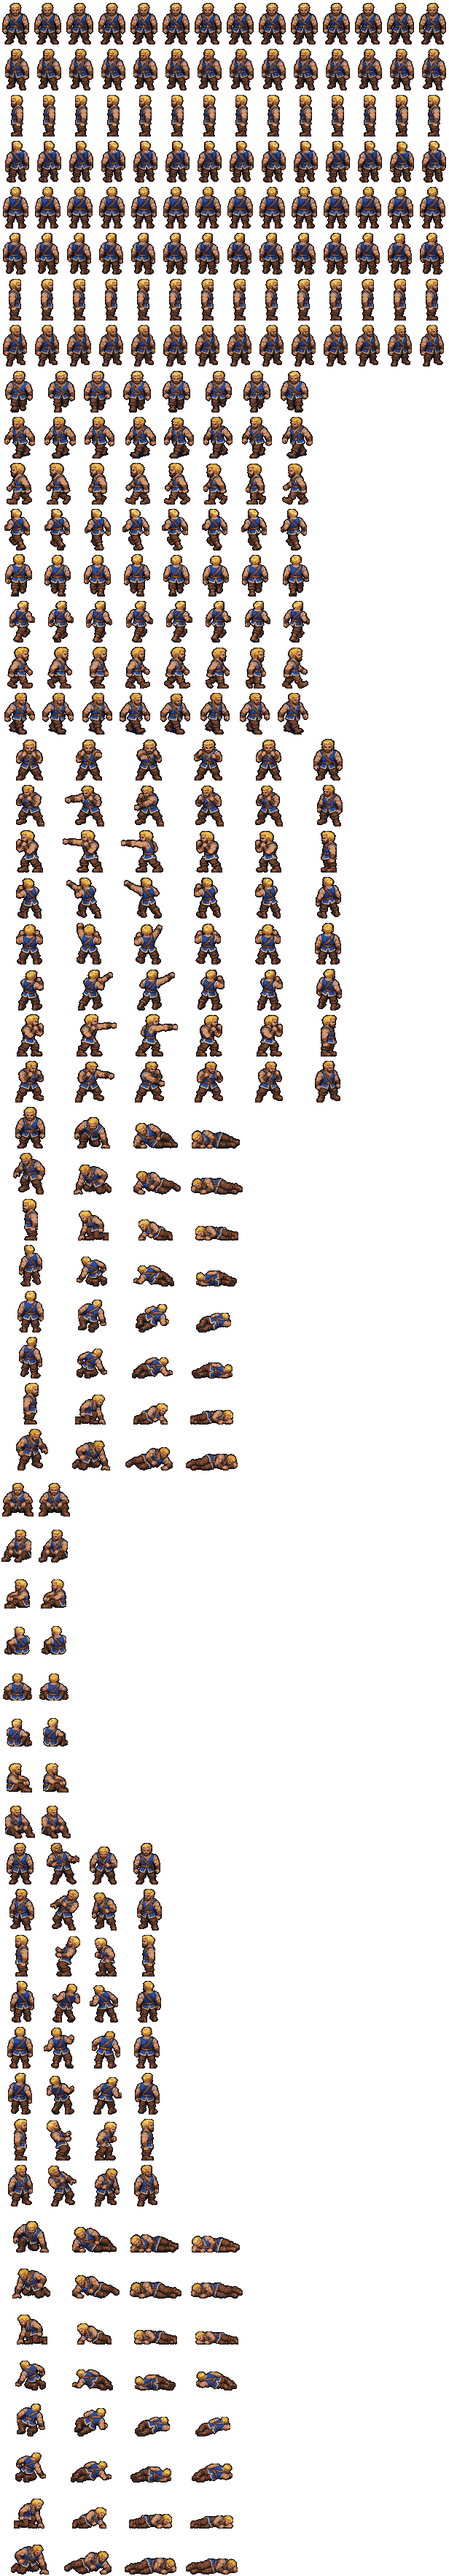
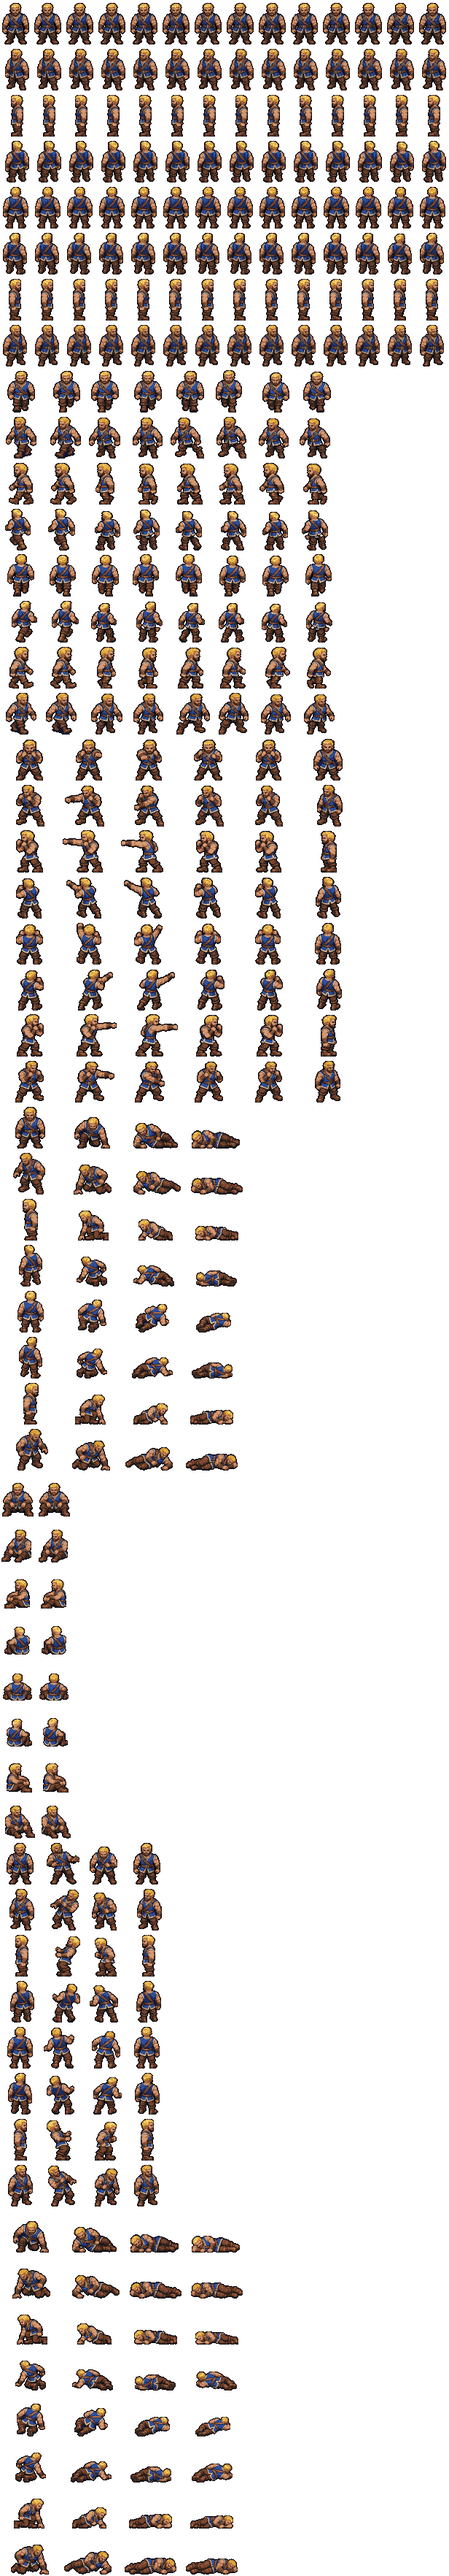
Talmok's walk built from his other poses' legs: both feet step in all eight facings (talmok_p2 walk, tools/talmok-sheet.py WALKS)
Griz, on the lanes desk's relay of 10-30 ~01:35Z: "1 - have the cutter hack legs off of other poses and build the best walk it can" (the art desk's walks repeat a leg in every view; the old 3D walk stays out). Each of the eight frames of each drawn view is an upper body and a pair of legs joined at the tunic's hem (hem(): the blue pieces that start above 70% of his height -- the belt parts the tunic, and the SE walk's painted ground shadow is a blue piece under the boots -- and the pale trim under them) at game size, before the snap, so the outline is drawn round the whole; the legs' hip under the body's; the body's hands that hang past the hem kept with their drawn outline, the legs' frame's own hands left out and a hole over the thigh filled with the trousers' colour round it (hands(), legs_of()). S and N: the walk's 1-4 as drawn, then 5-8 their own drawn bodies on 1-4's legs mirrored -- the other leg leads. SE, E, NE (a mirror would turn the feet): the walk's stride, legs together (the idle's, or the walk's own narrowest), a stride with the other foot forward off the fists' stance (SE, E) or the flinch's half step (NE), together again. A frame whose body and legs are one drawing is taken as drawn. The cutter now composes before it snaps (shrink, then pixel): every other row byte for byte as before, anchor to anchor. Checked at 4x frame by frame, and drawn through the engine (D.spr.draw, every facing and frame, headless from the worktree). Eyes row eyes-talmok-walk-1030
[…]

Changed region(s): [[0.0, 0.1247, 0.7403, 0.3118]]

diff --git a/js/eyes.js b/js/eyes.js
@@ -734,5 +734,8 @@
     'eyes-talmok-fight-1030': { pri: 2, group: G2, title: 'Talmok in his new look, fighting: every row in all eight facings, from the art desk\'s ART-123-TALMOK-COMBAT (10-30)', pt: 'the bestiary, the cutter of 10-29 night (tools/talmok-sheet.py talmok_p2; deep16/data/foes.js talmok, deep16/js/classes.js talmok) · eyes',
       url: 'deep16/?rows=talmok&fresh=1030t',
       look: 'Your “talmok attempts dropped”. The Hex\'s champion in the look of his town pages, the blue sleeveless tunic, the pale-gold hair and the brown beard, in place of the old 3D figure (talmok_p1, kept beside it): his idle (the town pages), walk, Pit Fists (a jab, then the cross that lands), flinch, fall, prone and sit, S, SE, E, NE and N as drawn, SW, W and NW mirrored. Turn him round on the shelf. The art desk\'s own word on the fight pages is “PARTIAL / REVIEW CANDIDATES”: every walk repeats a leg (a shuffle, not two strides), and from the north he falls toward the top-right, as from the NE. To see him in a fight, every row twice: deep16/?show=talmok; on the Hex\'s floor by the sand, his town idle all round.' },
+    'eyes-talmok-walk-1030b': { pri: 2, group: G2, title: 'Talmok\'s walk built from his other poses\' legs, both feet stepping in all eight facings (10-30)', pt: 'the bestiary, the cutter of 10-29 night (tools/talmok-sheet.py WALKS, talmok_p2 walk) · eyes',
+      url: 'deep16/?rows=talmok&fresh=1030w',
+      look: 'Your “have the cutter hack legs off of other poses and build the best walk it can”. On the shelf, his walk: from the front and from behind, the walk\'s own four steps, then the same four with the legs mirrored, so the other foot leads; from the diagonals and the side, the walk\'s stride, his legs together (the idle\'s, or the walk\'s own narrowest), then a stride with the other foot forward, taken off his fists\' stance (SE, E) or his flinch\'s half step (NE), then together again. Each frame joined at the tunic\'s hem. He should step, not shuffle, in every facing, and bob a little; no seam at the hem, no stray dark pixel on a thigh. The old 3D walk stays out. Every other row is as before (eyes-talmok-fight-1030).' },
   };
 })();

diff --git a/deep16/index.html b/deep16/index.html
@@ -77,7 +77,7 @@
 <script src="js/art.js?v=e1ce4cf012"></script>
 <script src="data/cavern.js?v=647c1a184a"></script>
 <script src="data/maps.js?v=4ec440bc24"></script>
-<script src="data/sprites.js?v=6d26ac4083"></script>
+<script src="data/sprites.js?v=6117ec09b7"></script>
 <script src="js/sprites.js?v=132505c283"></script>
 <script src="js/save.js?v=5c4dfded55"></script>
 <script src="data/spells.js?v=b819b6e987"></script>
@@ -165,7 +165,7 @@
 <script src="js/skyshow.js?v=7151daab7a"></script>
 <script src="js/barleyshow.js?v=186123cdd5"></script>
 <script src="js/rulesshow.js?v=ba52d8fe7d"></script>
-<script src="../js/eyes.js?v=cc6202ebbb"></script>
+<script src="../js/eyes.js?v=0d179f6227"></script>
 <script src="js/onegallery.js?v=198c5b983d"></script>
 <script src="js/main.js?v=ce6ba07215"></script>
 </body>

diff --git a/deep16/data/sprites.js b/deep16/data/sprites.js
@@ -17334,7 +17334,7 @@ true
 }
 },
 "talmok_p2": {
-"image": "art/talmok_p2.png?v=718e6a7612",
+"image": "art/talmok_p2.png?v=7921379211",
 "anims": {
 "idle": {
 "y": 0,
@@ -17347,9 +17347,9 @@ true
 },
 "walk": {
 "y": 504,
-"fw": 54,
+"fw": 58,
 "fh": 63,
-"ax": 27,
+"ax": 29,
 "ay": 60,
 "frames": 8,
 "fps": 10

diff --git a/tools/talmok-sheet.py b/tools/talmok-sheet.py
@@ -13,8 +13,8 @@ view a page: HEAD 1 S, 2 SE, 3 E, 4 NE (from behind), 5 N; PAGE 1 Walk 8 (two ba
 two alternating half-strides), the N Fall and Prone UNRESOLVED-NORTH-AXIS (he falls toward the top-right, as from the NE), the rest review
 candidates with drift. The old KayKit sheet he wore, talmok_p1 (idle, walk, attack, sit), is kept as it was, beside this one.
 
-Rows (the engine's names): idle <- the town page's Idle 4 (SEQ, as the town's keepers: tools/keeper-town-sheet.py); walk <- Walk 8, as drawn (WALK,
-below: or the old sheet's walk under it); attack <- Pit Fists 6 (the cross on 3 lands: `release` 2); flinch <- Flinch 4; hurt <- Fall 4 (he goes down);
+Rows (the engine's names): idle <- the town page's Idle 4 (SEQ, as the town's keepers: tools/keeper-town-sheet.py); walk <- built (WALKS, below);
+attack <- Pit Fists 6 (the cross on 3 lands: `release` 2); flinch <- Flinch 4; hurt <- Fall 4 (he goes down);
 prone <- Fall 2-4 then Prone 1 (where he lies while prone: js/sprites.js S.proneRow); sit <- Sit 2. Facings (RULED 10-14): S, SE, E, NE, N as drawn,
 SW, W, NW their mirrors.
 
@@ -27,6 +27,16 @@ MANIFEST.json `review_windows`): as many as it says, each drawing's middle in it
 and `check` prints the head's scale beside every page's), the Prone by its length against the Fall's last frame at the Fall page's scale. The ground:
 a standing frame on its feet's middle, a frame on the ground (the fall's last three, the prone, the sit) on its own middle, every frame on its own
 lowest pixel. The feet's middle is the midpoint of the two boots (feet_mid), not of the last rows: in the SE and E views one boot stands lower.
+
+THE WALK, built (10-30, Griz to the lanes desk, of the art desk's walks that repeat a leg: "have the cutter hack legs off of other poses and build the
+best walk it can"; the old 3D walk stays out). Each of the eight frames of each drawn view is an upper body and a pair of legs, joined at the tunic's
+hem (hem(): the lowest rows of its blue, and its pale trim under them) at game size before the snap, so the outline is drawn round the whole: the
+legs' hip (the trousers' top, their middle) under the body's, his hands that hang past the hem kept from the body's frame (hands(): skin that runs
+down from above the hem, and its drawn outline) and the legs' frame's own hands left out, a hole one leaves over the thigh filled (legs_of()). WALKS names each frame's two sources: a frame of one of his rows in that view
+(W walk, P Pit Fists, F flinch, I the town idle), and `m` for legs mirrored about their hip. S and N, where boots and trousers read the same from
+either side: the walk's 1-4 as drawn, then 5-8 their own drawn bodies on 1-4's legs mirrored -- the other leg leads. SE, E and NE, where a mirror would
+turn the feet: the walk's stride (the near foot forward), legs together (the idle's, or the walk's own narrowest), then a stride with the other foot
+forward taken off the fists' stance (SE, E) or the flinch's half step (NE), and together again. Each frame on its own lowest pixel, so he bobs.
 """
 import os, sys, json
 import importlib.util
@@ -58,7 +68,7 @@ PAGES = {1: ('Walk', [4, 4], 'all'), 2: ('Pit Fists', [3, 3], [5]), 3: ('Flinch'
 GROUND = {('Fall', 1), ('Fall', 2), ('Fall', 3), ('Prone', 0), ('Sit', 0), ('Sit', 1)}   # (frames on the ground: placed on their own middle, not their feet's)
 GAP = {(5, 4): 6}                             # (a page whose drawings stand closer than 12 px: the N Fall's 3 and 4, 10 apart)
 SEQ = KT.SEQ                                  # (the town's held loop of the four: relaxed and breath three times, the blink, the return)
-WALK = 'drawn'                                # 'drawn': the art desk's walks as they are; 'old': none drawn, the old sheet's walk plays under (js/sprites.js frameOf `under`)
+WALK = 'built'                                # 'built': WALKS, his legs off his other poses; 'drawn': the art desk's walks as they are; 'old': the old sheet's under (js/sprites.js frameOf)
 AVOID = ['red', 'fire', 'violet']             # (ramps the snap leaves out -- tools/pixelate.py snap: the skin's shadows flecked the reds, its highlights the fire, after the tone;
                                               # the tunic's shaded underside the violet -- nothing he wears is violet)
 WARM, SKIN = 35, (15, 25)                     # the warm hues toned (skin, leather, beard; the pale-gold hair above them kept), and the skin's band they are measured by
@@ -165,10 +175,121 @@ def page_head(fr, idx, k0, hw_game):
     return k
 
 
-def snap(rgba, k):
+def shrink(rgba, k):
+    """a drawing boxed down to game size (alpha-premultiplied), not yet snapped: RGBA uint8"""
     im = Image.fromarray(rgba, 'RGBA').convert('RGBa')
-    im = im.resize((max(1, round(rgba.shape[1] * k)), max(1, round(rgba.shape[0] * k))), Image.BOX).convert('RGBA')
-    return pix.pixelate(im, 1, do_lift=False, avoid=AVOID)      # (the outline adds a pixel all round)
+    return np.asarray(im.resize((max(1, round(rgba.shape[1] * k)), max(1, round(rgba.shape[0] * k))), Image.BOX).convert('RGBA')).copy()
+
+
+def pixel(small):
+    """snapped to the 64 and outlined (tools/pixelate.py)"""
+    return pix.pixelate(Image.fromarray(small, 'RGBA'), 1, do_lift=False, avoid=AVOID)
+
+
+def snap(rgba, k):
+    return pixel(shrink(rgba, k))
+
+
+# the walk, built: facing -> its eight frames, each (the body's frame, the legs' frame[, 'm' the legs mirrored]); a frame is (row, index), the rows
+# W walk, P Pit Fists, F flinch, I the town idle's four drawings -- the order a stride, its follow-through, legs together twice, the other stride
+WALKS = {
+    0: [('W0', 'W0'), ('W1', 'W1'), ('W2', 'W2'), ('W3', 'W3'), ('W4', 'W0', 'm'), ('W5', 'W1', 'm'), ('W6', 'W2', 'm'), ('W7', 'W3', 'm')],   # S
+    4: [('W0', 'W0'), ('W1', 'W1'), ('W2', 'W2'), ('W3', 'W3'), ('W4', 'W0', 'm'), ('W5', 'W1', 'm'), ('W6', 'W2', 'm'), ('W7', 'W3', 'm')],   # N
+    7: [('W0', 'W0'), ('W3', 'W3'), ('W1', 'I0'), ('W2', 'I1'), ('W4', 'P0'), ('W5', 'P4'), ('W6', 'I0'), ('W7', 'I1')],                       # SE
+    6: [('W3', 'W3'), ('W4', 'W4'), ('W2', 'W2'), ('W6', 'W6'), ('W5', 'P0'), ('W7', 'P4'), ('W0', 'W2'), ('W1', 'W6')],                       # E
+    5: [('W0', 'W0'), ('W3', 'W3'), ('W1', 'I0'), ('W2', 'I1'), ('W4', 'F1'), ('W5', 'F2'), ('W6', 'I0'), ('W7', 'I1')],                       # NE
+}
+ROWKEY = {'W': 'Walk', 'P': 'Pit Fists', 'F': 'Flinch', 'I': 'Idle'}
+
+
+def blue_of(small):
+    on = small[..., 3] >= 128
+    h, sa, v = PS.hsv(small[..., :3].astype(np.int32))
+    return on & (h >= 200) & (h <= 250) & (sa > 0.35) & (v > 0.2)
+
+
+def hem(small):
+    """the tunic's hem at game size: the last row of its blue -- the blue pieces that start above 70% of his height (the SE walk's painted ground shadow
+    is a blue piece of its own, under the boots) -- and of the pale trim just under it"""
+    on = small[..., 3] >= 128
+    h, sa, v = PS.hsv(small[..., :3].astype(np.int32))
+    lb, n = ndimage.label(blue_of(small), structure=np.ones((3, 3)))
+    tops = [sl[0].start for sl in ndimage.find_objects(lb)]
+    tunic = np.isin(lb, [i + 1 for i, t in enumerate(tops) if t < 0.7 * small.shape[0]])   # (every blue piece that starts above his knees: the belt parts the tunic)
+    c = int(np.where(tunic.any(1))[0].max())
+    pale = on & (v > 0.6) & (sa < 0.4)
+    for y in (c + 1, c + 2):
+        if y < small.shape[0] and pale[y].sum() >= 2:
+            c = y
+    return c
+
+
+def skin_of(small):
+    on = small[..., 3] >= 128
+    h, sa, v = PS.hsv(small[..., :3].astype(np.int32))
+    return on & (h >= 5) & (h <= 40) & (sa > 0.2) & (v > 0.5), on & (v < 0.25)
+
+
+def hands(small, c):
+    """his hands where they hang past the hem: skin that runs down from above it (8-connected), in the rows just under it, and their drawn outline"""
+    skin, dark = skin_of(small)
+    lb, n = ndimage.label(skin, structure=np.ones((3, 3)))
+    above = set(np.unique(lb[:c + 1][skin[:c + 1]]))
+    m = np.isin(lb, list(above - {0}))
+    m[:c + 1] = False; m[c + 8:] = False
+    m |= ndimage.binary_dilation(m, structure=np.ones((3, 3))) & dark
+    m[:c + 1] = False
+    return m
+
+
+def legs_of(small, c):
+    """the legs under the hem: the frame there less its own hands (hands()) and any blue (the SE walk's painted ground shadow), less the islands of
+    under 6 px a hand's outline leaves; and the holes a hand over the thigh leaves, to be filled"""
+    on = small[..., 3] >= 128
+    K = on & ~blue_of(small) & ~hands(small, c); K[:c + 1] = False
+    lb, n = ndimage.label(K, structure=np.ones((3, 3)))
+    if n:
+        sz = ndimage.sum(K, lb, range(1, n + 1))
+        K &= np.isin(lb, 1 + np.where(sz >= 6)[0])
+    holes = ndimage.binary_fill_holes(K) & ~K
+    return K, holes
+
+
+def hip(small, c, drop):
+    """the legs' hip: the middle of the trousers' top, three rows under the hem (his hands left out)"""
+    band = (small[c + 1:c + 4, :, 3] >= 128) & ~drop[c + 1:c + 4]
+    return float(np.where(band)[1].mean())
+
+
+def compose(body, legs, mirror=False):
+    """one frame of the built walk: `body`'s rows down to its hem, its hands under it; `legs`' rows under its own hem, their hip under the body's"""
+    cb, cl = hem(body), hem(legs)
+    hb, (keep, holes) = hands(body, cb), legs_of(legs, cl)
+    L = legs.copy(); L[~keep] = 0
+    if holes.any():                                                     # (a hand over the thigh: its hole the trousers' colour round it)
+        lb, n = ndimage.label(holes, structure=np.ones((3, 3)))
+        for i in range(1, n + 1):
+            hm = lb == i; ring = ndimage.binary_dilation(hm, iterations=2) & keep
+            L[hm] = np.median(legs[ring], axis=0).astype(np.uint8) if ring.any() else 0
+    low = L[cl + 1:]
+    xl = hip(legs, cl, ~keep)
+    if mirror:
+        low = low[:, ::-1]; xl = legs.shape[1] - 1 - xl
+    xb = hip(body, cb, hb)
+    dx = int(round(xb - xl))
+    W = max(body.shape[1], low.shape[1] + abs(dx)) + 2 * abs(dx) + 4
+    ox = abs(dx) + 2                                                # (the body's left edge on the new canvas)
+    out = np.zeros((cb + 1 + low.shape[0], W, 4), np.uint8)
+    out[:cb + 1, ox:ox + body.shape[1]] = body[:cb + 1]
+    lx = ox + dx
+    seg = out[cb + 1:, lx:lx + low.shape[1]]
+    on = low[..., 3] > 0
+    seg[on] = low[on]
+    hy, hx = np.where(hb)
+    keep = (hy + 0 < out.shape[0])
+    out[hy[keep], ox + hx[keep]] = body[hy[keep], hx[keep]]         # (his hands over the legs)
+    ys, xs = np.where(out[..., 3] > 0)
+    return out[ys.min():ys.max() + 1, xs.min():xs.max() + 1].copy()
 
 
 def cut():
@@ -189,7 +310,7 @@ def cut():
             raise SystemExit('town page %d: %d drawings found, 4 wanted' % (tp, len(found)))
         th, thw = town_head(found); hw_game = thw * TALL / th        # (his head's width at game size, by the town page's own scale)
         k = TALL / th                                             # (the town page by its own four drawings' median, as keeper-town-sheet's page())
-        faces[f]['Idle'] = [(px, fx * k + 1, px.shape[0]) for px, fx in [(snap(q[0], k), q[1]) for q in frames_of(a, found)]]
+        faces[f]['Idle'] = [(sm, fx * k + 1, sm.shape[0]) for sm, fx in [(shrink(q[0], k), q[1]) for q in frames_of(a, found)]]
         report.append('town P%d     k %.4f  tone %.3f' % (tp, k, kt))
         fall_k = fall_last = None
         for pg in sorted(PAGES):
@@ -207,13 +328,24 @@ def cut():
                 fall_k, fall_last = k, fr[-1][0].shape[1]
             row = []
             for i, (rgba, fx, mx, h) in enumerate(fr):
-                px = snap(rgba, k)
+                sm = shrink(rgba, k)
                 x = (mx if (act, i) in GROUND else fx) * k + 1
-                row.append((px, x, px.shape[0]))
+                row.append((sm, x, sm.shape[0]))
             faces[f][act] = row
             report.append('H%d %-9s k %.4f  tone %.3f%s' % (head, act, k, kt, '  (by the head %.4f, %+.1f%%)' % (kh, 100 * (kh / k - 1)) if kh else ''))
+        if WALK == 'built':                                       # (the walk, from his own rows' bodies and legs: WALKS)
+            src = lambda key: faces[f][ROWKEY[key[0]]][int(key[1:])][0]
+            built = []
+            for spec in WALKS[f]:
+                whole = spec[0] == spec[1] and len(spec) == 2                # (a drawn frame, body and legs its own: taken as drawn)
+                sm = src(spec[0]).copy() if whole else compose(src(spec[0]), src(spec[1]), len(spec) > 2 and spec[2] == 'm')
+                ys, xs = np.where(sm[..., 3] >= 128); t, b = ys.min(), ys.max() + 1
+                built.append((sm, feet_mid(sm[..., 3] >= 128, t, b, 0) + 1, sm.shape[0]))
+            faces[f]['Walk'] = built
     for f, g in MIRROR.items():
         faces[f] = {act: [(px[:, ::-1].copy(), px.shape[1] - x, h) for px, x, h in row] for act, row in faces[g].items()}
+    for f in faces:                                               # (snapped last: a mirror of a snapped frame is the snap of its mirror)
+        faces[f] = {act: [(pixel(sm), x, h) for sm, x, h in row] for act, row in faces[f].items()}
     # the engine's rows from the drawn actions
     rows = {}
     for f in range(8):
